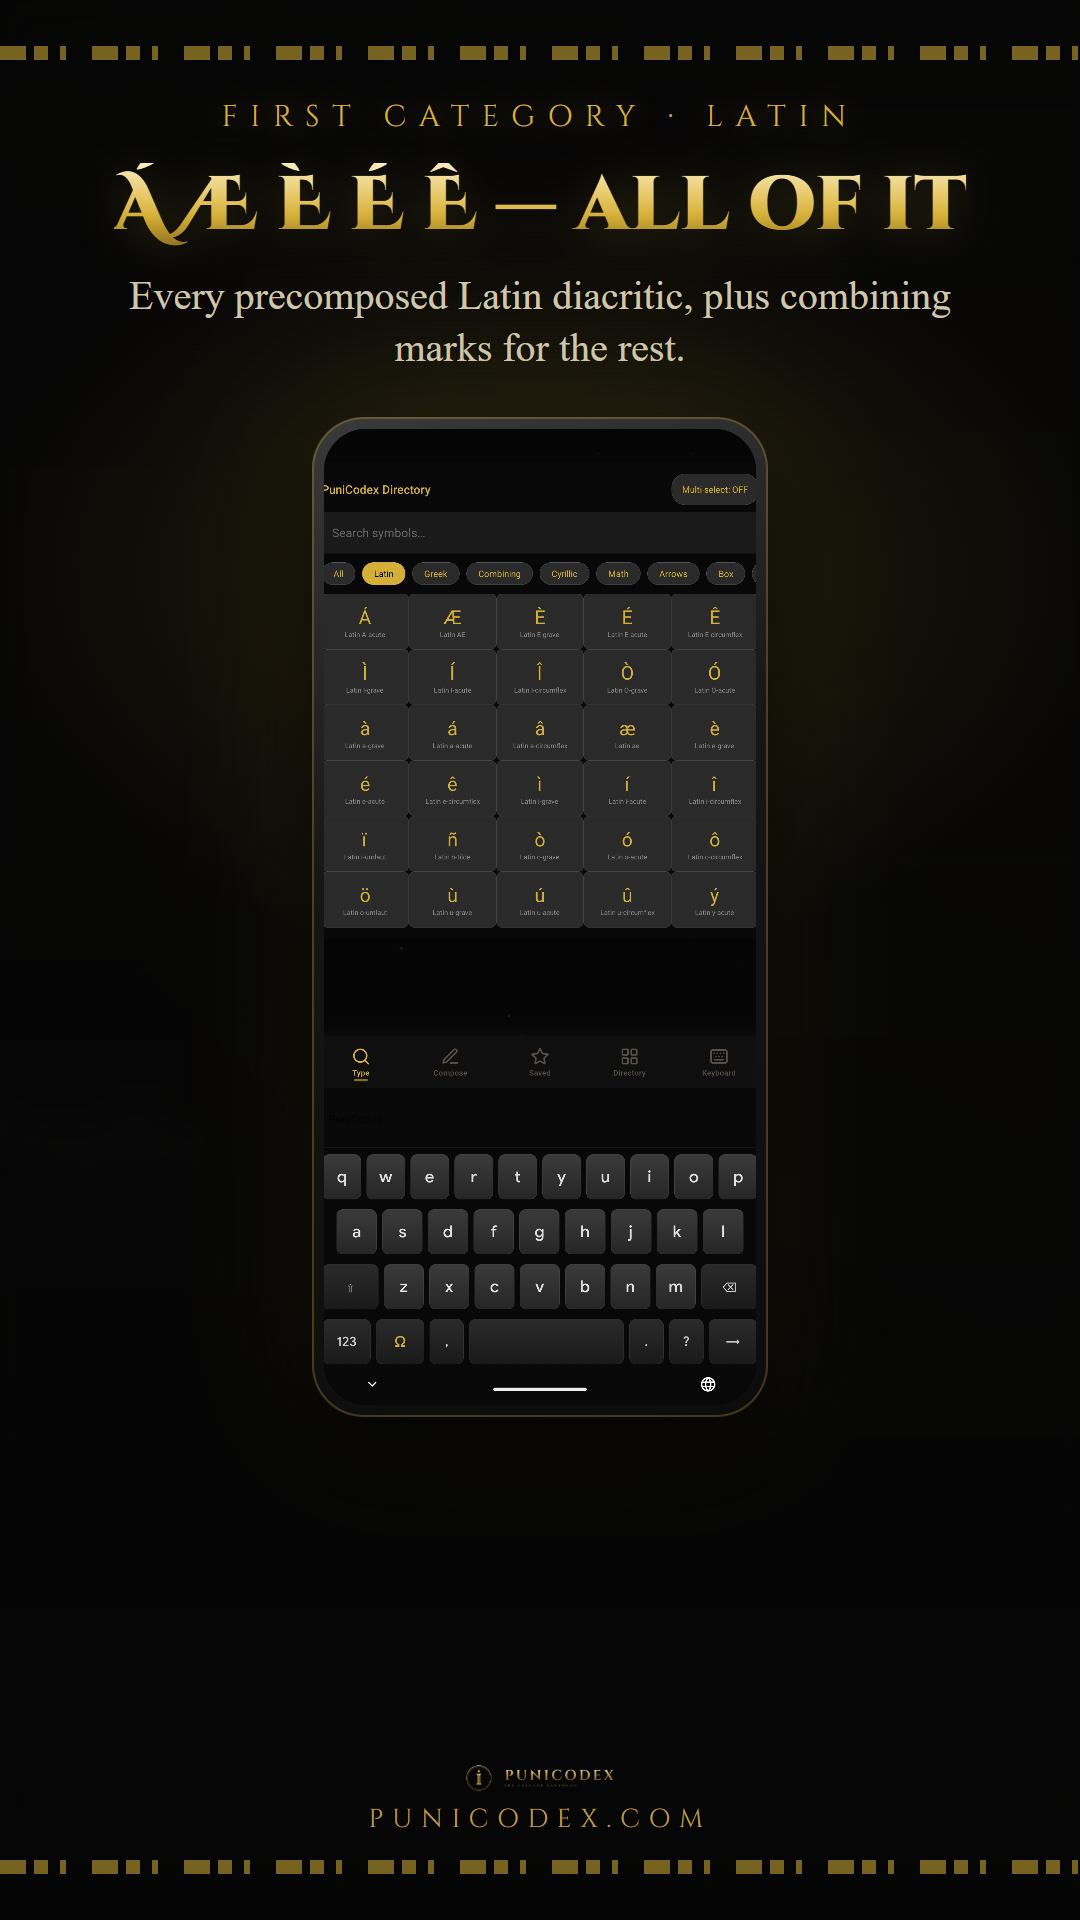
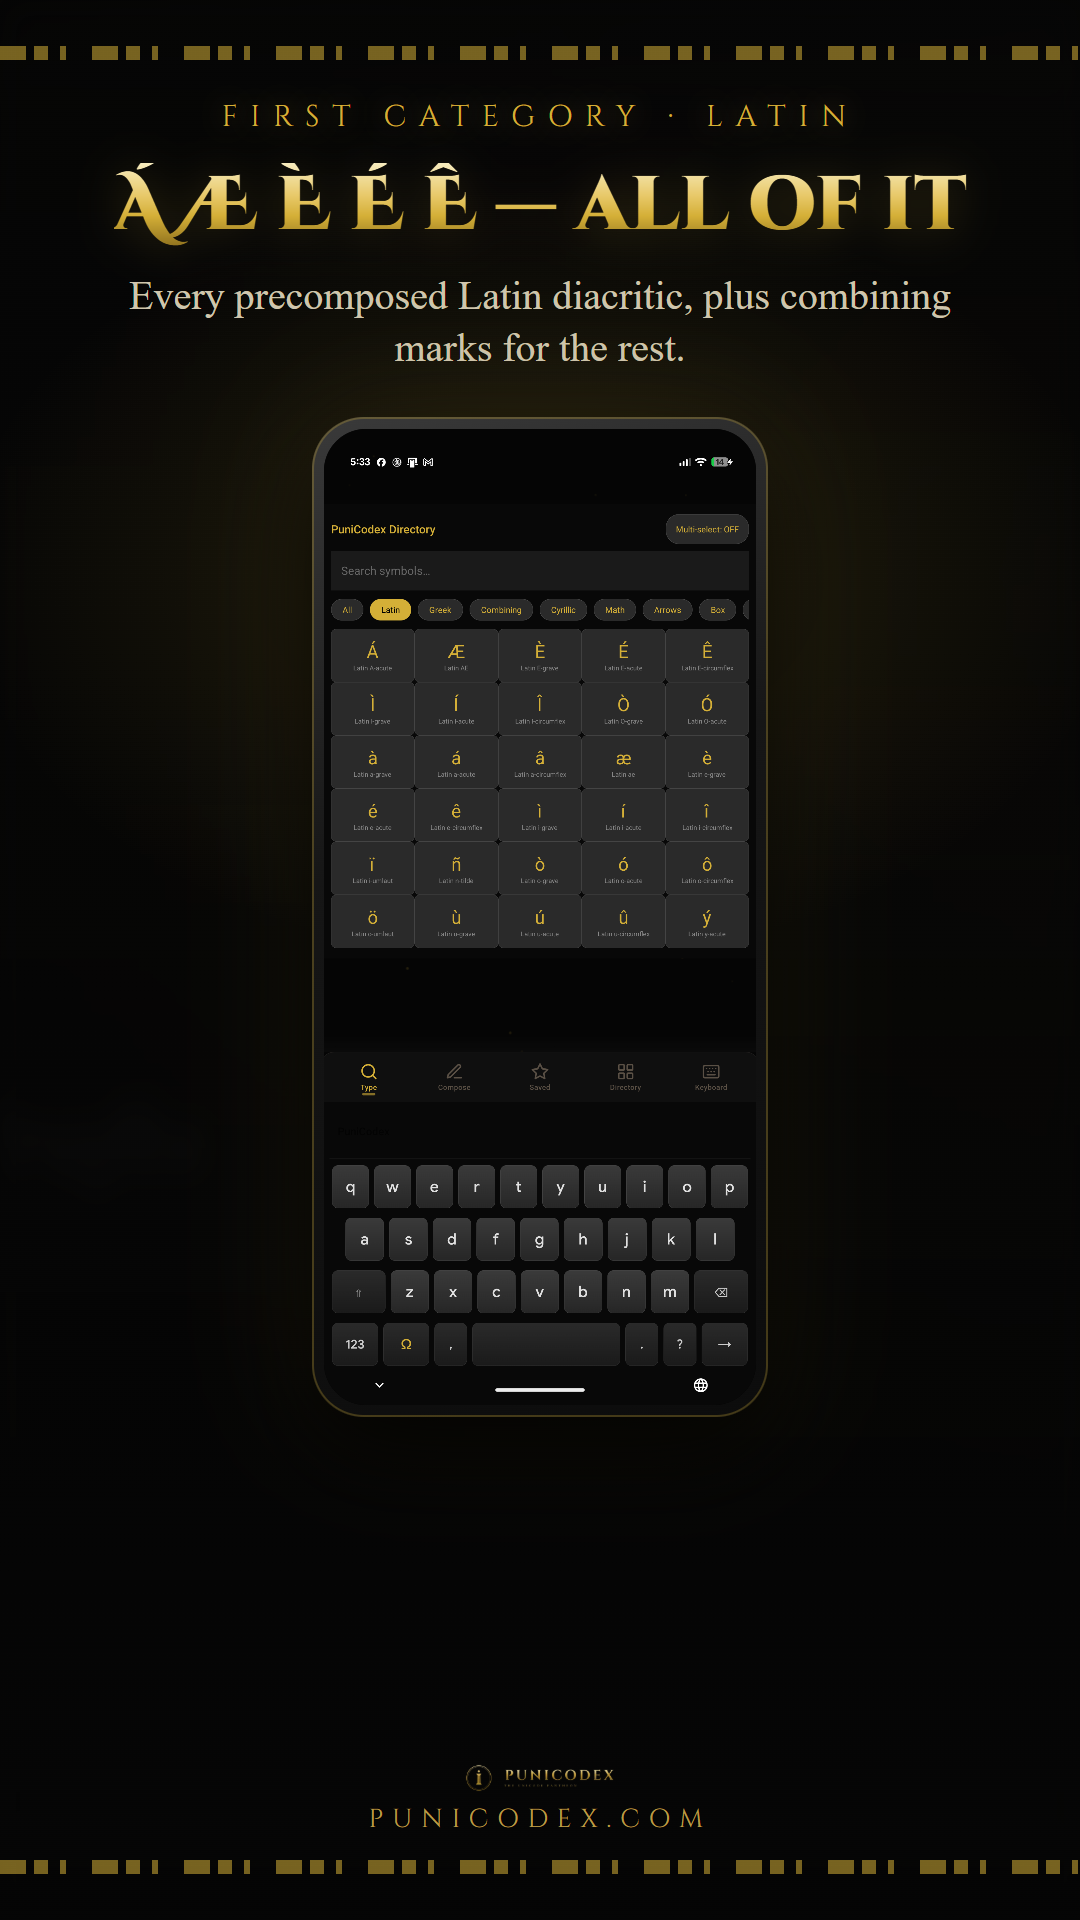
marketing: fix zoomed/cut-off phone shots 2-4 — full-bleed captures, selective re-bake

diff --git a/Marketing/_templates/render.js b/Marketing/_templates/render.js
@@ -21,7 +21,10 @@ const SHOTS = [
   },
   {
     file: 'screenshot-2-latin.png',
-    shot: `${W}/crop_pal_first.png`,
+    // Full-bleed device capture (status bar + tabs + keyboard) — the earlier
+    // crop_pal_first was pre-cropped ~85px per side, which read as zoomed-in
+    // and cut off in the frame.
+    shot: `${W}/final2_latin.png`,
     backdrop: `${OG}/athena.jpg`,
     kicker: 'First Category · Latin',
     headline: 'Á Æ È É Ê — all of it',
@@ -29,7 +32,8 @@ const SHOTS = [
   },
   {
     file: 'screenshot-3-letterlike.png',
-    shot: `${W}/crop_pal_last.png`,
+    // Full-bleed capture, Directory section at top (no broken-logo app header).
+    shot: `${W}/final2_letter.png`,
     backdrop: `${OG}/hekate.jpg`,
     kicker: 'Last Category · Letterlike',
     headline: '…to ℞ № ™ ℀',
@@ -37,7 +41,8 @@ const SHOTS = [
   },
   {
     file: 'screenshot-4-convert.png',
-    shot: `${W}/crop_type.png`,
+    // Full-bleed capture; broken logo icon patched out (shot_type_clean).
+    shot: `${W}/shot_type_clean.png`,
     backdrop: `${OG}/zeus.jpg`,
     kicker: 'Scholarly Unicode',
     headline: 'Type “apoll”. Get Apóllōn.',
@@ -89,11 +94,24 @@ const SIZES = [
     executablePath: 'C:/Program Files/Google/Chrome/Application/chrome.exe',
   });
 
+  // Optional selective re-bake: --only screenshot-2-latin.png,... --sizes phone,tablet-7in
+  const onlyIdx = process.argv.indexOf('--only');
+  const only = onlyIdx > -1 ? new Set(process.argv[onlyIdx + 1].split(',')) : null;
+  const sizesIdx = process.argv.indexOf('--sizes');
+  const sizesFilter =
+    sizesIdx > -1 ? new Set(process.argv[sizesIdx + 1].split(',')) : null;
+  const shots = only ? SHOTS.filter((s) => only.has(s.file)) : SHOTS;
+  const sizes = sizesFilter ? SIZES.filter((s) => sizesFilter.has(s.dir)) : SIZES;
+  if (!shots.length || !sizes.length) {
+    console.log('nothing selected');
+    process.exit(1);
+  }
+
   const fs = require('fs');
-  for (const size of SIZES) {
+  for (const size of sizes) {
     const outDir = `${ROOT}/marketing/google-play/${size.dir}`;
     fs.mkdirSync(outDir, { recursive: true });
-    for (const s of SHOTS) {
+    for (const s of shots) {
       const page = await browser.newPage({
         viewport: { width: size.w, height: size.h },
         deviceScaleFactor: 1,
@@ -113,7 +131,12 @@ const SIZES = [
       await page.screenshot({ path: `${outDir}/${s.file}` });
       await page.close();
     }
-    console.log(`rendered ${SHOTS.length} shots @ ${size.w}x${size.h} -> ${size.dir}/`);
+    console.log(`rendered ${shots.length} shots @ ${size.w}x${size.h} -> ${size.dir}/`);
+  }
+
+  if (only || sizesFilter) {
+    await browser.close();
+    return;
   }
 
   const fg = await browser.newPage({
